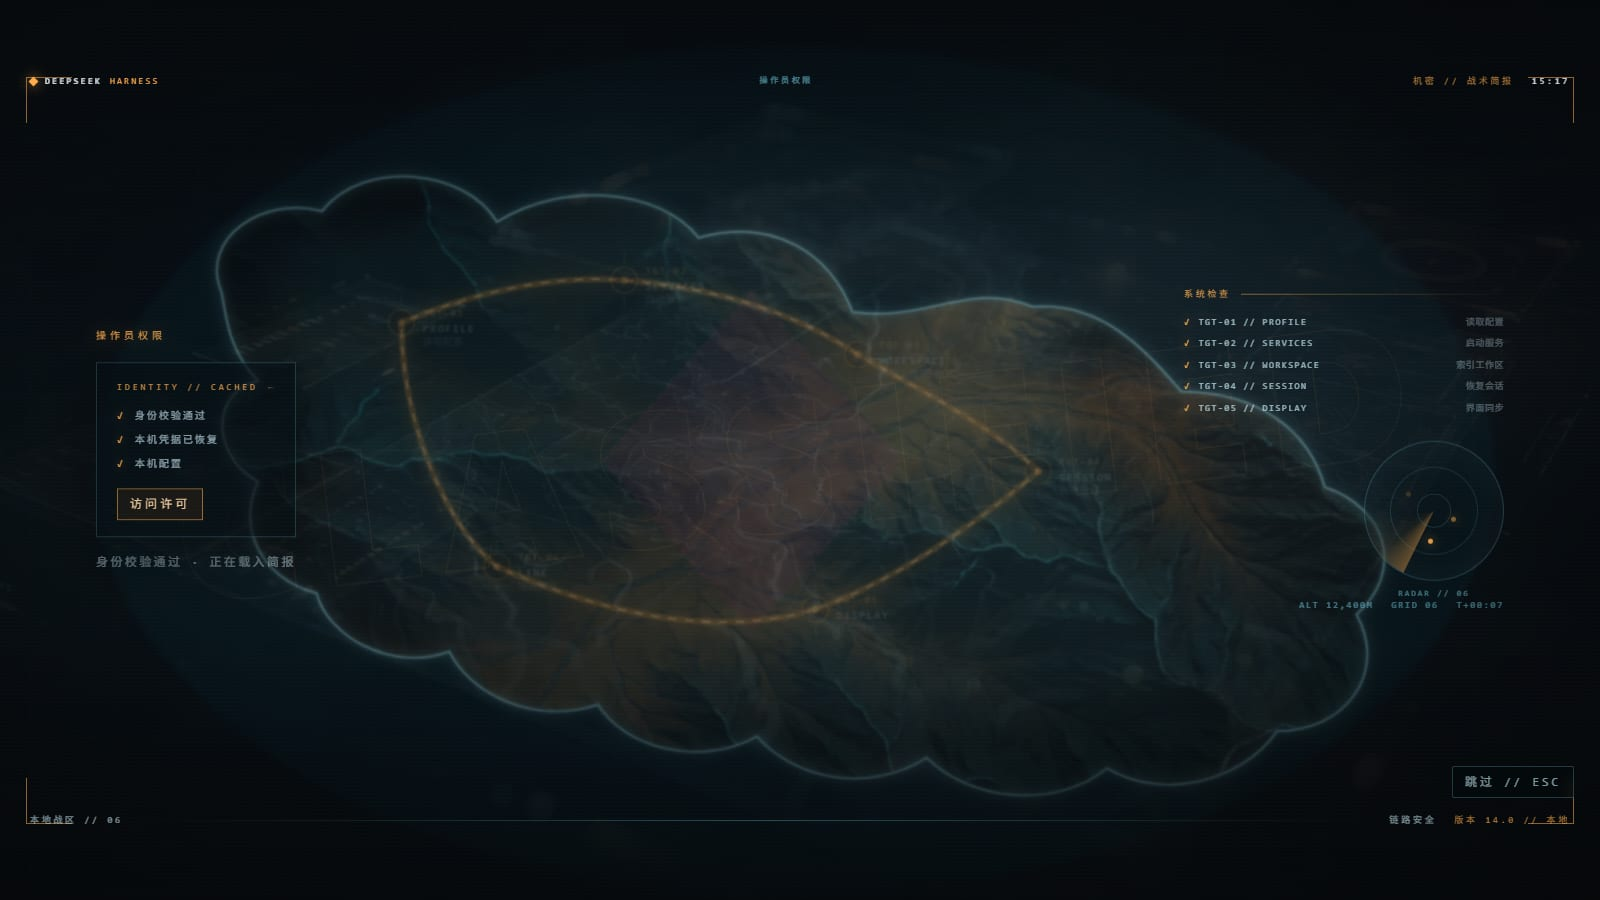
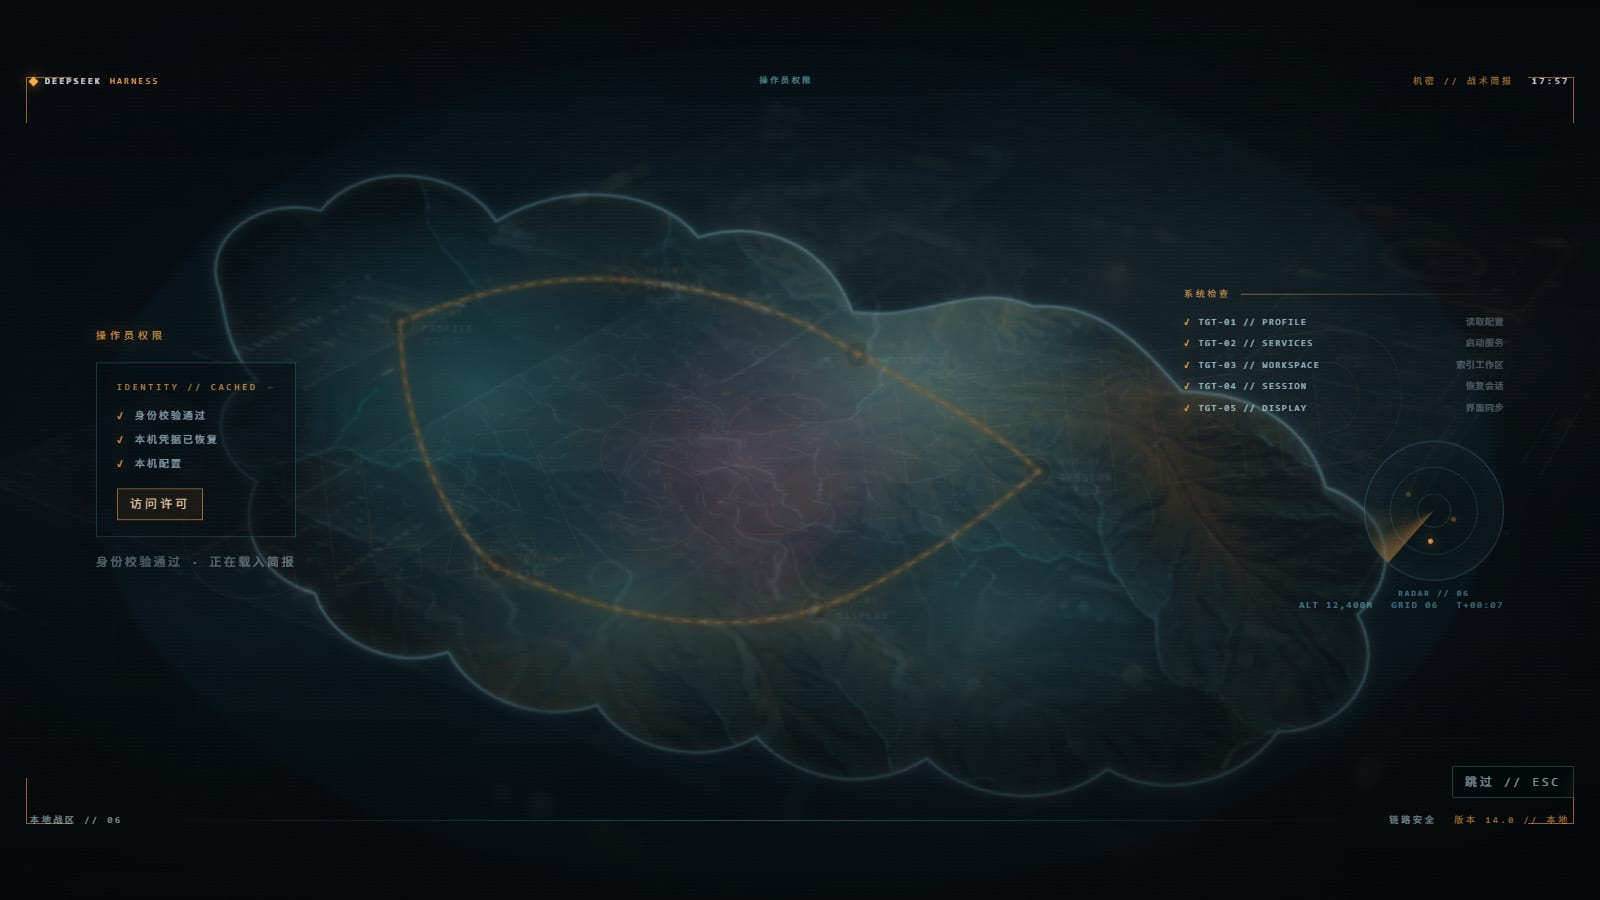
fix: restore the breathing region and waypoint glows (v0.14.1)
- each of the four sectors now carries a slowly breathing radial glow; the magenta primary sector gets a stronger, faster halo
- waypoints regain an amber halo plus slowly rotating rays, and the route/coast bloom stays underneath
- glows use screen blending inside the land clip, so they sit on the terrain without leaking into the sea
- screenshots/README regenerated; behaviour and Host contract untouched (8/8 tests, real-Edge reload check)

diff --git a/client.js b/client.js
@@ -253,6 +253,12 @@ window.__ModuleLoader__.load({
       { d: 'M 410 570 L 765 455 L 905 700 L 555 705 Z', fill: 'rgba(40,140,165,.18)' },
       { d: 'M 765 455 L 1080 520 L 1180 705 L 905 700 Z', fill: 'rgba(70,190,205,.13)' },
     ];
+    const REGION_GLOWS = [
+      { cx: 500, cy: 390, rx: 300, ry: 220, tone: 'tea' },
+      { cx: 900, cy: 380, rx: 300, ry: 210, tone: 'bright' },
+      { cx: 640, cy: 585, rx: 280, ry: 200, tone: 'tea' },
+      { cx: 980, cy: 600, rx: 260, ry: 190, tone: 'bright' },
+    ];
     const PRIMARY_SECTOR = 'M 760 300 L 900 460 L 760 620 L 620 460 Z';
 
     const NODES = [
@@ -308,6 +314,21 @@ window.__ModuleLoader__.load({
             style: { '--acb-i': index },
             transform: 'translate(' + node.x + ' ' + node.y + ')',
           },
+          h('circle', { className: 'acb-node-halo', r: 46, fill: 'url(#acbNodeGlow)' }),
+          h(
+            'g',
+            { className: 'acb-node-rays' },
+            [0, 1, 2, 3, 4, 5].map(function (ray) {
+              const angle = (ray * Math.PI) / 3;
+              return h('line', {
+                key: 'ray-' + ray,
+                x1: Math.cos(angle) * 16,
+                y1: Math.sin(angle) * 16,
+                x2: Math.cos(angle) * 34,
+                y2: Math.sin(angle) * 34,
+              });
+            }),
+          ),
           h('circle', { className: 'acb-node-ping', r: 20 }),
           h('circle', { className: 'acb-node-ring', r: 12 }),
           h('circle', { className: 'acb-node-dot', r: 3.4 }),
@@ -340,6 +361,34 @@ window.__ModuleLoader__.load({
               h('stop', { offset: '0%', stopColor: 'rgba(2,10,14,.1)' }),
               h('stop', { offset: '62%', stopColor: 'rgba(2,8,12,.45)' }),
               h('stop', { offset: '100%', stopColor: 'rgba(1,5,8,.92)' }),
+            ),
+            h(
+              'radialGradient',
+              { id: 'acbGlowTea' },
+              h('stop', { offset: '0%', stopColor: 'rgba(96,226,244,.55)' }),
+              h('stop', { offset: '52%', stopColor: 'rgba(40,150,178,.22)' }),
+              h('stop', { offset: '100%', stopColor: 'rgba(8,40,52,0)' }),
+            ),
+            h(
+              'radialGradient',
+              { id: 'acbGlowBright' },
+              h('stop', { offset: '0%', stopColor: 'rgba(136,244,255,.62)' }),
+              h('stop', { offset: '52%', stopColor: 'rgba(56,188,216,.24)' }),
+              h('stop', { offset: '100%', stopColor: 'rgba(8,44,58,0)' }),
+            ),
+            h(
+              'radialGradient',
+              { id: 'acbGlowMagenta' },
+              h('stop', { offset: '0%', stopColor: 'rgba(238,96,156,.56)' }),
+              h('stop', { offset: '56%', stopColor: 'rgba(186,52,112,.2)' }),
+              h('stop', { offset: '100%', stopColor: 'rgba(52,8,28,0)' }),
+            ),
+            h(
+              'radialGradient',
+              { id: 'acbNodeGlow' },
+              h('stop', { offset: '0%', stopColor: 'rgba(255,206,140,.9)' }),
+              h('stop', { offset: '42%', stopColor: 'rgba(255,160,70,.28)' }),
+              h('stop', { offset: '100%', stopColor: 'rgba(60,30,8,0)' }),
             ),
             h(
               'pattern',
@@ -388,6 +437,31 @@ window.__ModuleLoader__.load({
             }),
           ),
           h('path', { d: CONTINENT, fill: 'url(#acbLandShade)', opacity: 0.55 }),
+          h(
+            'g',
+            { className: 'acb-region-glows', clipPath: 'url(#acbLandClip)' },
+            REGION_GLOWS.map(function (glow, index) {
+              return h('ellipse', {
+                key: 'region-glow-' + index,
+                className: 'acb-region-glow',
+                cx: glow.cx,
+                cy: glow.cy,
+                rx: glow.rx,
+                ry: glow.ry,
+                fill: 'url(#acbGlow' + (glow.tone === 'bright' ? 'Bright' : 'Tea') + ')',
+                style: { '--acb-i': index },
+              });
+            }),
+            h('ellipse', {
+              key: 'region-glow-primary',
+              className: 'acb-region-glow acb-region-glow-primary',
+              cx: 760,
+              cy: 460,
+              rx: 240,
+              ry: 190,
+              fill: 'url(#acbGlowMagenta)',
+            }),
+          ),
           h('path', {
             d: CONTINENT,
             fill: 'none',
@@ -1075,6 +1149,18 @@ window.__ModuleLoader__.load({
 .acb-map-route{opacity:.9;}
 .acb-route-dash{animation:acbDash 6s linear infinite;}
 @keyframes acbDash{to{stroke-dashoffset:-96}}
+.acb-region-glow{transform-box:fill-box;transform-origin:center;mix-blend-mode:screen;
+  animation:acbRegionBreathe 7.5s ease-in-out infinite alternate;
+  animation-delay:calc(var(--acb-i,0) * -1.7s);}
+@keyframes acbRegionBreathe{from{opacity:.5;transform:scale(.93)}to{opacity:1;transform:scale(1.07)}}
+.acb-region-glow-primary{animation-duration:5.4s;animation-delay:-1.2s;}
+.acb-node-halo{transform-box:fill-box;transform-origin:center;mix-blend-mode:screen;
+  animation:acbNodeHalo 3.6s ease-in-out infinite;
+  animation-delay:calc(var(--acb-i,0) * .28s);}
+@keyframes acbNodeHalo{0%,100%{opacity:.26;transform:scale(.86)}50%{opacity:.78;transform:scale(1.16)}}
+.acb-node-rays{transform-box:fill-box;transform-origin:center;opacity:.6;
+  animation:acbSpin 28s linear infinite;}
+.acb-node-rays line{stroke:rgba(255,196,120,.42);stroke-width:1;}
 .acb-map-node{opacity:.35;transition:opacity .6s ease;}
 .acb-map-node .acb-node-ping{fill:none;stroke:rgba(127,233,255,.5);stroke-width:1;
   transform-box:fill-box;transform-origin:center;animation:acbPing 3s ease-out infinite;

diff --git a/boot-splash.js b/boot-splash.js
@@ -81,7 +81,7 @@ export const EARLY_HTML = String.raw`
   <div class="acbE-bottom">
     <span>DESKTOP <b>06</b></span>
     <span>LOCAL // SECURE BOOT</span>
-    <span>BUILD <b>14.0</b></span>
+    <span>BUILD <b>14.1</b></span>
   </div>
 </div>
 `;

diff --git a/README.md b/README.md
@@ -6,7 +6,9 @@ DeepSeek Harness Web UI 的电影感开机序列：四段式**战术任务简报
 
 序列只属于**一次应用启动**：冷启动播放一次；休眠唤醒、托盘恢复、页面刷新都不会重播。
 
-当前版本：**0.14.0**
+当前版本：**0.14.1**
+
+> 0.14.1：把分区与航点的呼吸光晕重新加回来——每个分区一颗缓慢呼吸的径向光晕，品红主区一颗更强的光晕，航点带琥珀光晕与旋转射线。
 
 | 简报上行 | 战区态势 |
 | --- | --- |
@@ -17,7 +19,7 @@ DeepSeek Harness Web UI 的电影感开机序列：四段式**战术任务简报
 ## 这一版是什么
 
 1. **简报 / BRIEF（0–2.8s）**：暗场里一张全息指挥桌缓慢呼吸，左侧轨道环，右侧 `DEEPSEEK / HARNESS` 字标划开；`OPERATION // FIRST LIGHT`、加密上行状态、简报准备进度，右侧 `BRIEFING DATA`（TGT / GRID / UPLINK / STATUS）。
-2. **战区 / THEATER（2.8–7.2s）**：全幅虚构战区地图。Agnes 地形浮雕裁进原创大陆轮廓，青色发光海岸线；四个分区 + 品红主区软光；六个航点 `TGT-01…TGT-06`（PROFILE / SERVICES / WORKSPACE / SESSION / DISPLAY / LINK）沿琥珀航线依次点亮；左侧 `TGT INFO`，右侧 `BRIEFING DATA`，底部图例与网格刻度。
+2. **战区 / THEATER（2.8–7.2s）**：全幅虚构战区地图。Agnes 地形浮雕裁进原创大陆轮廓，青色发光海岸线；四个分区各带缓慢呼吸的径向光晕，品红主区一颗更强的品红光晕；六个航点 `TGT-01…TGT-06`（PROFILE / SERVICES / WORKSPACE / SESSION / DISPLAY / LINK）带琥珀光晕与旋转射线，沿琥珀航线依次点亮；左侧 `TGT INFO`，右侧 `BRIEFING DATA`，底部图例与网格刻度。
 3. **权限 / CONSOLE（7.2–10.8s）**：地图退暗，左侧 `OPERATOR ACCESS` 卡片逐条校验身份、凭据、本机配置并盖 `ACCESS GRANTED`；右侧系统检查列表、雷达扫描与遥测；背景是低透明度的 `CLASSIFIED` 分类水印。
 4. **标题 / TITLE（10.8–15s）**：地图线稿淡出，`DEEPSEEK` 大标题、`MISSION START` 任务开始章、三枚状态 chip、`按 Enter 继续` 与自动继续进度。
 
@@ -171,6 +173,7 @@ ln -s "$HOME/src/dsh-ac-boot" "$profileRoot/node_modules/@local/dsh-ac-boot"
 - 背景图版本：`ART_VERSION`（默认 `14`，换图时 +1）
 - 启动去重标记：`sessionStorage['acb-boot-played']`（清掉它可让下一次页面重载重新播放）
 - 战区形状：`CONTINENT`；分区：`REGIONS` / `PRIMARY_SECTOR`；航点：`NODES`；航线：`ROUTE`
+- 区域光晕：`REGION_GLOWS` 与 `.acb-region-glow`（呼吸 7.5s，主区 5.4s）；航点光晕 `acbNodeGlow` 与 `.acb-node-halo`、旋转射线 `.acb-node-rays`
 
 ## 交互
 
